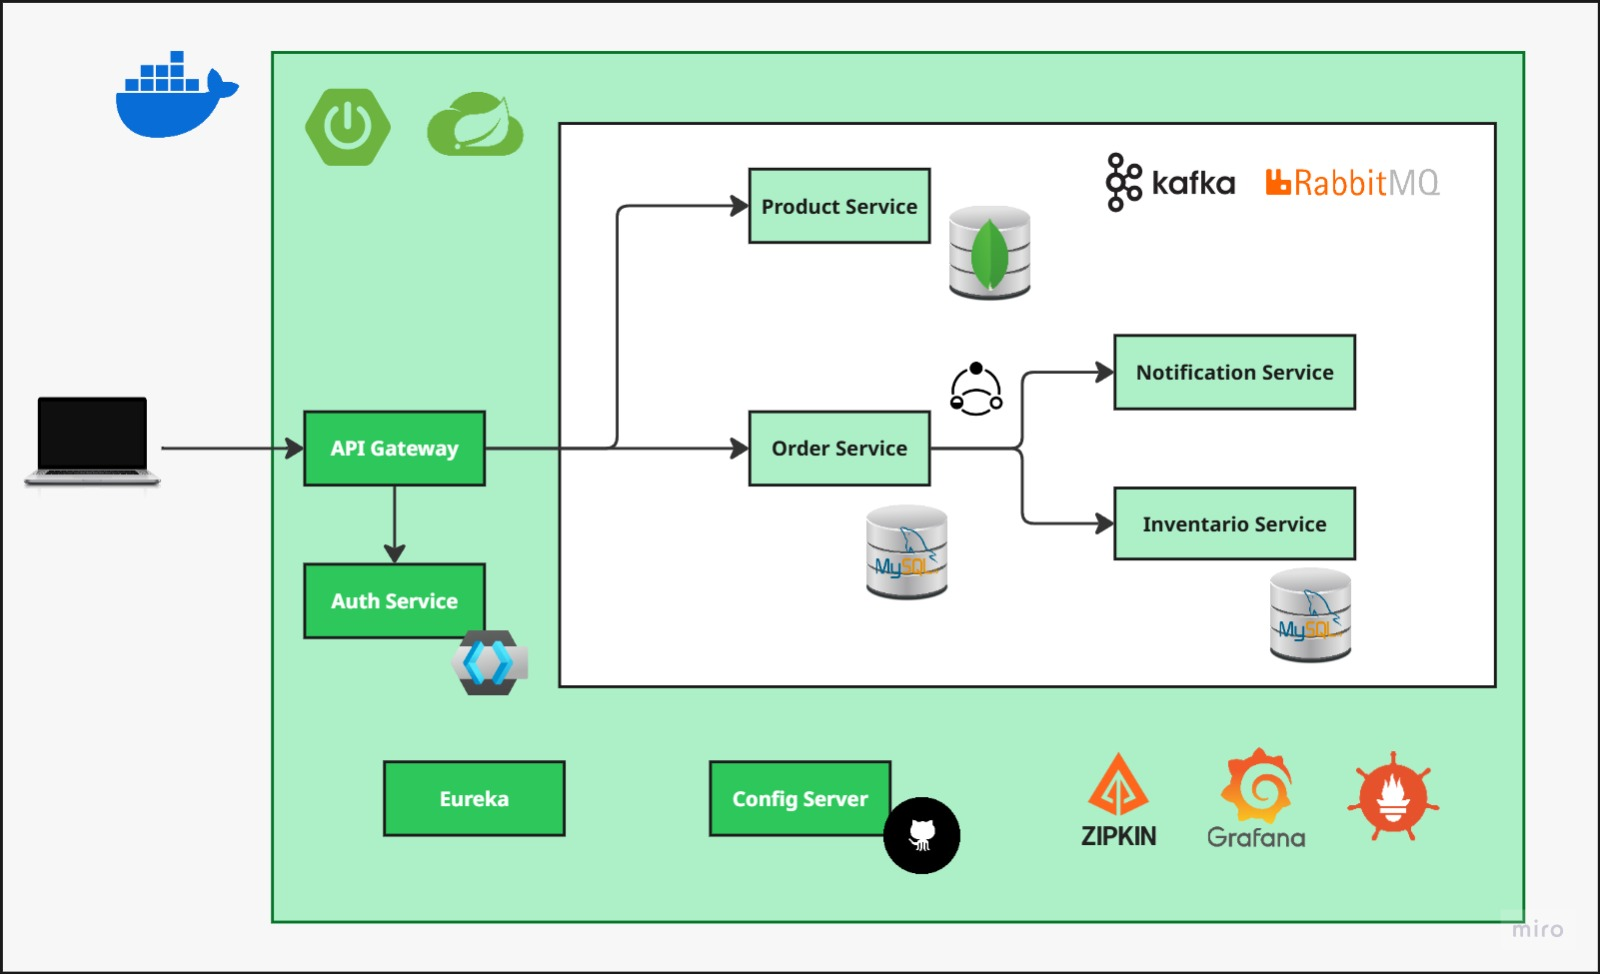
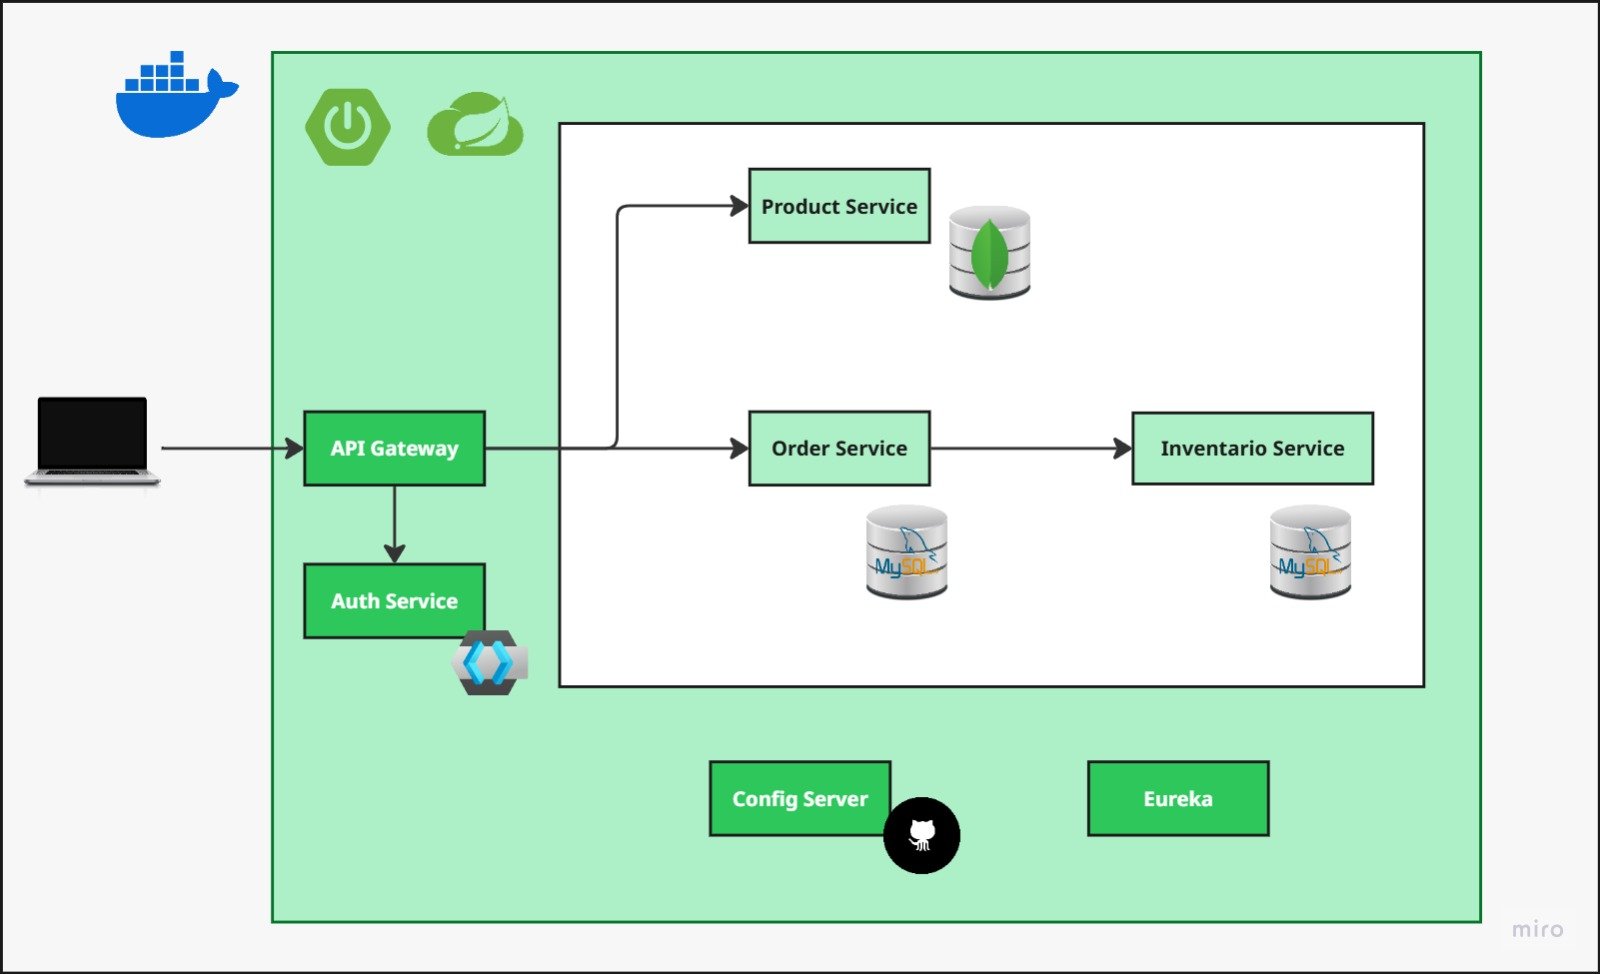
update README.md

Changed region(s): [[0.5938, 0.0308, 0.9688, 0.9548], [0.6562, 0.77, 0.8125, 0.8932], [0.2188, 0.77, 0.375, 0.8624]]

diff --git a/README.md b/README.md
@@ -1,5 +1,5 @@
 # Order Management System
-Order Management System is a hand-ons project covers Spring Cloud foundations about microservice architecture, where I apply diverse technologies such as Docker, Keycloak, Kafka, RabbitMQ, JWT, Zipkin, Grafana, Prometheus and more.
+Order Management System is a hand-ons project covers Spring Cloud foundations about microservice architecture, where I apply diverse technologies such as Docker, Keycloak, JWT and more.
 
 ## Proposed Architecture
 <p align="center">
